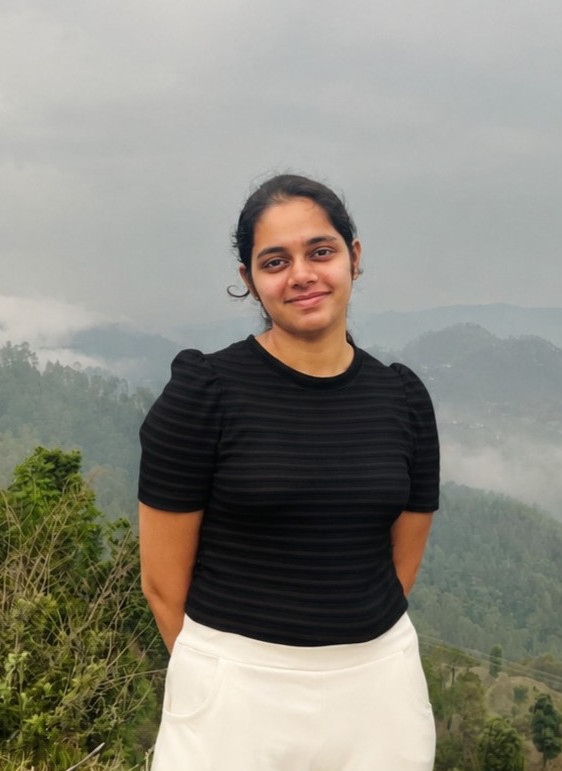
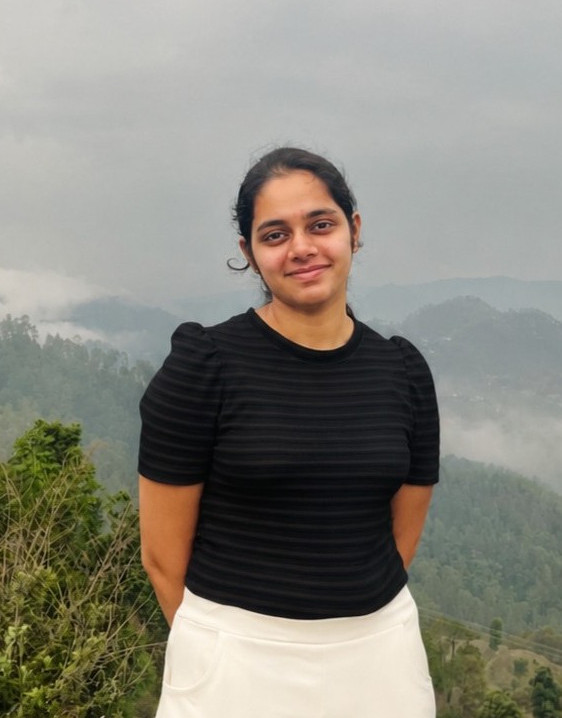
adjustments in pic

diff --git a/src/app/globals.css b/src/app/globals.css
@@ -36,7 +36,7 @@ button{font-family:inherit;cursor:none}
    ============================================================ */
 ::view-transition-old(root){animation:none}
 ::view-transition-new(root){
-  animation:theme-wipe-reveal 750ms cubic-bezier(.76,0,.24,1) both;
+  animation:theme-wipe-reveal 850ms cubic-bezier(.76,0,.24,1) both;
   clip-path:inset(0 0 100% 0);
 }
 
